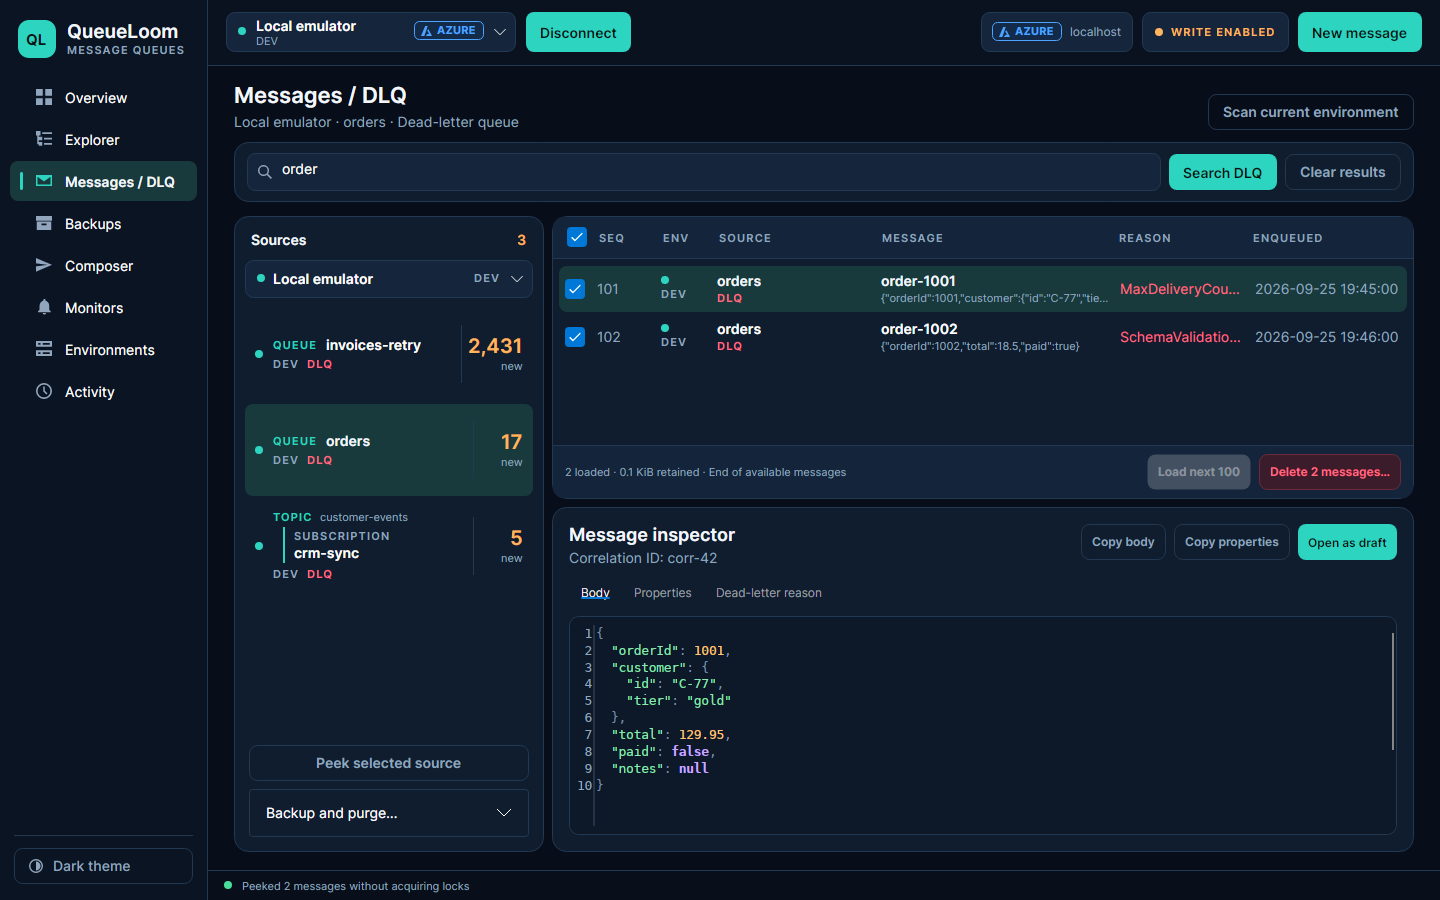
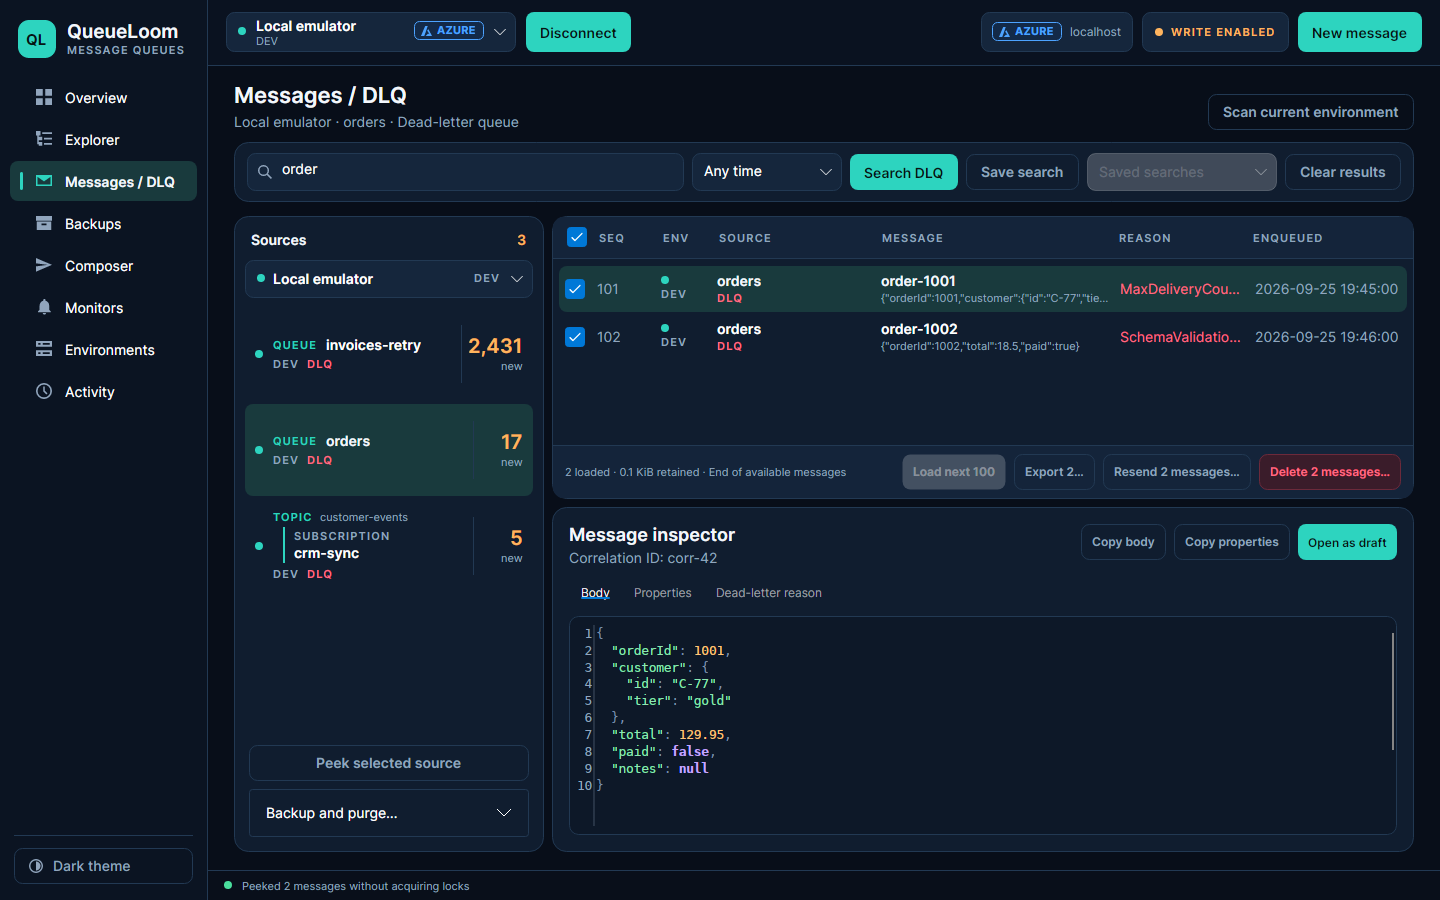
Describe resending, exports, saved searches, alerts, retention and the macOS and Linux packages in the README

diff --git a/tests/QueueLoom.UiTests/CloudProviderUiTests.cs b/tests/QueueLoom.UiTests/CloudProviderUiTests.cs
@@ -109,6 +109,23 @@ public sealed class CloudProviderUiTests
             editor.Close();
         }
         fixture.ViewModel.ThemePreference = AppThemePreference.Dark;
+
+        // Resending: a DLQ draft in Composer and the dialog for the ticked messages.
+        await fixture.OpenDeadLettersAsync();
+        fixture.ViewModel.OpenMessageAsDraftCommand.Execute(null);
+        fixture.ViewModel.DraftMovesOriginal = true;
+        await fixture.SettleAsync();
+        Save(fixture.Window, Path.Combine(directory, "dark-composer-dlq.png"));
+        var resend = new ResendDialogWindow(new ResendDialogViewModel(
+            fixture.ViewModel.Messages.Select(message => message.Message).ToArray(),
+            fixture.ViewModel.Destinations.Select(destination => destination.Reference),
+            "Local emulator",
+            requiresTypedConfirmation: false)
+        { Moves = true });
+        resend.Show();
+        await fixture.SettleAsync();
+        Save(resend, Path.Combine(directory, "dark-resend-dialog.png"));
+        resend.Close();
     });
 
     private static bool Visible(Window window, string text) =>

diff --git a/src/QueueLoom.App/ViewModels/MainWindowViewModel.Composer.cs b/src/QueueLoom.App/ViewModels/MainWindowViewModel.Composer.cs
@@ -210,7 +210,7 @@ public sealed partial class MainWindowViewModel
             : ServiceBusEntityReference.Queue(selected.Source.Name);
         SelectedDestination = Destinations.FirstOrDefault(item => item.Reference == destination);
         DraftOriginNotice = originNotice ?? (selected.IsDeadLetter
-            ? "DLQ draft · resend sends a copy. Original remains in DLQ."
+            ? "DLQ draft · choose below whether the original stays in the DLQ."
             : "Peeked active-message draft · Send creates a new copy and leaves the original message unchanged.");
         if (destination.Kind == ServiceBusEntityKind.Topic)
         {

diff --git a/README.md b/README.md
@@ -1,6 +1,6 @@
 # QueueLoom
 
-A Windows desktop app for message queues in **Azure Service Bus**, **Amazon SQS / SNS** and **Google Cloud Pub/Sub**. Browse queues, topics and subscriptions, find messages in dead-letter queues, and back up, delete, resend or restore them safely. AI assistants (Claude, Cursor, VS Code) can use it too, through MCP.
+A desktop app for Windows, macOS and Linux for message queues in **Azure Service Bus**, **Amazon SQS / SNS** and **Google Cloud Pub/Sub**. Browse queues, topics and subscriptions, find messages in dead-letter queues, and back up, delete, resend or restore them safely. AI assistants (Claude, Cursor, VS Code) can use it too, through MCP.
 
 ![QueueLoom: dead-letter search with two messages ticked for deletion](docs/images/messages-dark.png)
 
@@ -19,7 +19,13 @@ A Windows desktop app for message queues in **Azure Service Bus**, **Amazon SQS 
 
 ## Install
 
-Download `QueueLoom-<version>-win-x64.zip` from [Releases](../../releases), unzip it and run `QueueLoom.exe`. No .NET installation is needed.
+Download the package for your system from [Releases](../../releases). No .NET installation is needed.
+
+| System | Package | Start |
+|---|---|---|
+| Windows | `QueueLoom-<version>-win-x64.zip` | unzip, run `QueueLoom.exe` |
+| macOS (Apple silicon / Intel) | `QueueLoom-<version>-osx-arm64.zip` / `-osx-x64.zip` | unzip, move `QueueLoom.app` to Applications; the first time, right-click it → **Open** (the app is not notarized by Apple) |
+| Linux | `QueueLoom-<version>-linux-x64.tar.gz` | `tar -xzf` it, run `./QueueLoom` |
 
 ## Getting started
 
@@ -34,12 +40,14 @@ The badge next to each environment (**AZURE**, **AWS**, **GCP**) shows its cloud
 
 ## What you can do
 
-- **Find dead letters.** On **Messages / DLQ**, search by Message ID, Correlation ID, subject, body text or a property.
+- **Find dead letters.** On **Messages / DLQ**, search by Message ID, Correlation ID, subject, body text or a property, optionally only from the last hour, day or week. **Save search** keeps a search to run again with one click.
 - **Delete only the messages you need.** Tick the found messages and press **Delete N messages…**; the others stay in the queue.
+- **Resend.** Tick messages and press **Resend N messages…**: back to where they came from or to any queue or topic, as **copies** (the originals stay) or as a **move** (sent first, then the originals are backed up and removed from the DLQ). In **Composer**, **Open as draft** lets you edit one message before sending it the same two ways.
+- **Export** the ticked or listed messages to JSON or CSV.
 - **Empty a dead-letter queue**, with a limit on how many messages to remove.
-- **Resend a message.** **Open as draft** copies it to **Composer**, where you can edit it and send it.
-- **Restore from backups** or replay copies to any queue or topic. On **Backups**, pick a group on the left (an environment, a topic with its subscriptions, a subscription or a queue) and delete all its backups at once.
-- **Watch dead-letter counts** on **Monitors** while the app is open.
+- **Restore from backups** or replay copies to any queue or topic. On **Backups**, pick a group on the left (an environment, a topic with its subscriptions, a subscription or a queue) and delete all its backups at once, or keep backups for a set number of days.
+- **Watch dead-letter counts** on **Monitors** while the app is open. New dead letters can also show a system notification and post to a Slack or Microsoft Teams webhook.
+- **Session-enabled** Azure queues and subscriptions work too: their dead letters like any other, their active messages session by session.
 
 QueueLoom never deletes anything without a local backup, and it asks for confirmation first. Production environments are read-only until you press **Unlock 10 min** and type the environment name.
 
@@ -50,7 +58,7 @@ QueueLoom never deletes anything without a local backup, and it asks for confirm
 | Queues | SQS queues | none |
 | Topics and subscriptions | SNS topics and their subscriptions | topics and subscriptions |
 | Dead-letter queue | the queue in the redrive policy | a subscription on the dead-letter topic |
-| Counters | approximate, from SQS | not reported by Pub/Sub; dead letters are counted when you scan |
+| Counters | approximate, from SQS | from Cloud Monitoring (needs the Monitoring Viewer role); otherwise dead letters are counted when you scan |
 
 SQS and Pub/Sub cannot peek. To show messages, QueueLoom receives them and hands them back unchanged a moment later. This counts as one more receive (SQS) or delivery attempt (Pub/Sub), and in SQS FIFO queues it shows up to 10 messages per message group. For local testing, set the endpoint to [LocalStack](https://localstack.cloud) (`http://localhost:4566`) or the Pub/Sub emulator (`localhost:8085`).
 
@@ -102,8 +110,8 @@ Add `"--read-only"` to `args` if the assistant should never be able to change an
 
 ## Where data is stored
 
-Backups are saved in the `backups` folder next to `QueueLoom.exe` (on Linux and macOS, next to the program file). If that folder cannot be written, for example under Program Files, they go to the data folder instead. Settings, encrypted credentials and logs are kept in `%LOCALAPPDATA%\QueueLoom`. Backups contain message bodies in plain text.
+Backups are saved in the `backups` folder next to `QueueLoom.exe` (on Linux and macOS, next to the program file). If that folder cannot be written, for example under Program Files, they go to the data folder instead. Settings, encrypted credentials and logs are kept in `%LOCALAPPDATA%\QueueLoom` (`~/.local/share/QueueLoom` on Linux, `~/Library/Application Support/QueueLoom` on macOS). Backups contain message bodies in plain text.
 
 ---
 
-Build from source: `dotnet test QueueLoom.slnx` (.NET 10 SDK). Tests against LocalStack and the Pub/Sub emulator run when `QUEUELOOM_LOCALSTACK_URL` and `QUEUELOOM_PUBSUB_EMULATOR` are set. · [MIT License](LICENSE) · [Third-party notices](THIRD-PARTY-NOTICES.md)
+Build from source: `dotnet test QueueLoom.slnx` (.NET 10 SDK). Tests against LocalStack, the Pub/Sub emulator and the Service Bus emulator run when `QUEUELOOM_LOCALSTACK_URL`, `QUEUELOOM_PUBSUB_EMULATOR` and `QUEUELOOM_SERVICEBUS_EMULATOR` are set. · [MIT License](LICENSE) · [Third-party notices](THIRD-PARTY-NOTICES.md)
